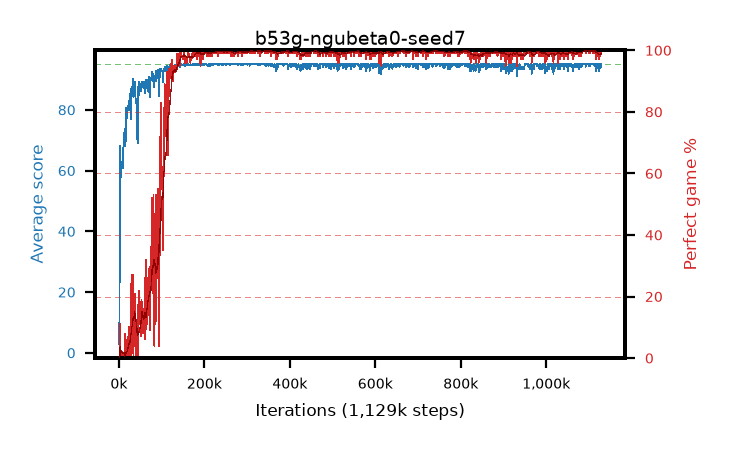
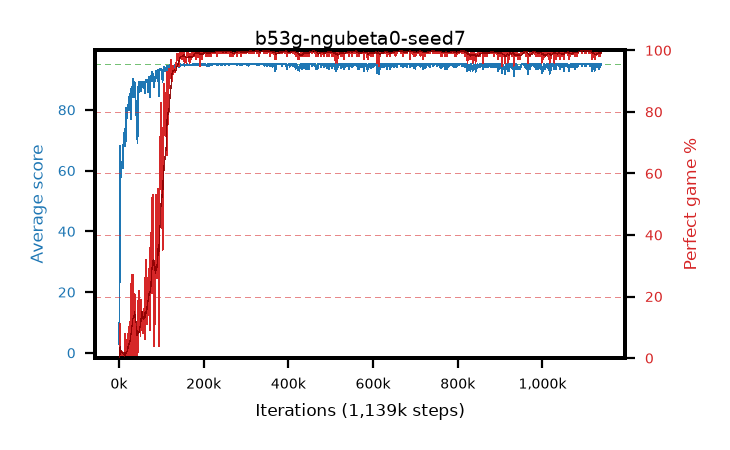
live pictures of 4 arm(s)

diff --git a/results/b53g-ngubeta0-seed7/b53g-ngubeta0-seed7.md b/results/b53g-ngubeta0-seed7/b53g-ngubeta0-seed7.md
@@ -1,6 +1,6 @@
 # b53g-ngubeta0-seed7
 
-step **1,129,000** · 1129 evals · trailing **94.52** · peak **94.97** @274,000 · sef **90.2** · best30 **99.8** @1,111,000
+step **1,139,000** · 1139 evals · trailing **94.44** · peak **94.97** @274,000 · sef **90.3** · best30 **99.8** @1,111,000
 
 ## Config
 
@@ -80,15 +80,15 @@ step **1,129,000** · 1129 evals · trailing **94.52** · peak **94.97** @274,00
 | 2000 | 37.8 | 20.34 | 6.0 | 63.0 | 32.628 | 0.0 | 0.4 |
 | 3000 | 67.99 | 36.22 | 23.0 | 95.0 | 74.006 | 11.0 | 0.4 |
 | ... | ... | ... | ... | ... | ... | ... | ... |
-| 1118000 | 94.19 | 94.78 | 14.0 | 95.0 | 191.939 | 99.0 | 0.4 |
-| 1119000 | 95.0 | 94.78 | 95.0 | 95.0 | 193.787 | 100.0 | 0.4 |
-| 1120000 | 93.87 | 94.74 | 29.0 | 95.0 | 190.573 | 98.0 | 0.4 |
-| 1121000 | 94.31 | 94.72 | 26.0 | 95.0 | 192.065 | 99.0 | 0.4 |
-| 1122000 | 94.34 | 94.69 | 29.0 | 95.0 | 192.095 | 99.0 | 0.4 |
-| 1123000 | 92.75 | 94.64 | 9.0 | 95.0 | 188.424 | 97.0 | 0.4 |
-| 1124000 | 95.0 | 94.64 | 95.0 | 95.0 | 193.797 | 100.0 | 0.4 |
-| 1125000 | 93.61 | 94.6 | 20.0 | 95.0 | 190.323 | 98.0 | 0.4 |
-| 1126000 | 94.24 | 94.57 | 19.0 | 95.0 | 191.988 | 99.0 | 0.4 |
-| 1127000 | 94.23 | 94.55 | 18.0 | 95.0 | 191.979 | 99.0 | 0.4 |
 | 1128000 | 95.0 | 94.55 | 95.0 | 95.0 | 193.793 | 100.0 | 0.4 |
 | 1129000 | 94.24 | 94.52 | 19.0 | 95.0 | 191.992 | 99.0 | 0.4 |
+| 1130000 | 94.55 | 94.53 | 50.0 | 95.0 | 192.293 | 99.0 | 0.4 |
+| 1131000 | 95.0 | 94.53 | 95.0 | 95.0 | 193.787 | 100.0 | 0.4 |
+| 1132000 | 94.27 | 94.51 | 22.0 | 95.0 | 192.021 | 99.0 | 0.4 |
+| 1133000 | 94.92 | 94.53 | 87.0 | 95.0 | 192.702 | 99.0 | 0.4 |
+| 1134000 | 93.56 | 94.48 | 23.0 | 95.0 | 190.272 | 98.0 | 0.4 |
+| 1135000 | 95.0 | 94.48 | 95.0 | 95.0 | 193.784 | 100.0 | 0.4 |
+| 1136000 | 94.22 | 94.45 | 24.0 | 95.0 | 190.938 | 98.0 | 0.4 |
+| 1137000 | 94.49 | 94.44 | 44.0 | 95.0 | 192.242 | 99.0 | 0.4 |
+| 1138000 | 95.0 | 94.44 | 95.0 | 95.0 | 193.789 | 100.0 | 0.4 |
+| 1139000 | 95.0 | 94.44 | 95.0 | 95.0 | 193.789 | 100.0 | 0.4 |

diff --git a/results/b53e-ngubeta0-seed5/b53e-ngubeta0-seed5.md b/results/b53e-ngubeta0-seed5/b53e-ngubeta0-seed5.md
@@ -1,6 +1,6 @@
 # b53e-ngubeta0-seed5
 
-step **1,119,000** · 1119 evals · trailing **94.41** · peak **94.95** @437,000 · sef **91.0** · best30 **99.8** @530,000
+step **1,129,000** · 1129 evals · trailing **94.56** · peak **94.95** @437,000 · sef **91.1** · best30 **99.8** @530,000
 
 ## Config
 
@@ -80,15 +80,15 @@ step **1,119,000** · 1119 evals · trailing **94.41** · peak **94.95** @437,00
 | 2000 | 29.39 | 17.35 | 3.0 | 54.0 | 24.459 | 0.0 | 0.4 |
 | 3000 | 50.81 | 28.5 | 16.0 | 85.0 | 45.457 | 0.0 | 0.4 |
 | ... | ... | ... | ... | ... | ... | ... | ... |
-| 1108000 | 94.3 | 94.43 | 27.0 | 95.0 | 191.045 | 98.0 | 0.4 |
-| 1109000 | 94.22 | 94.41 | 22.0 | 95.0 | 190.973 | 98.0 | 0.4 |
-| 1110000 | 94.25 | 94.38 | 20.0 | 95.0 | 192.003 | 99.0 | 0.4 |
-| 1111000 | 94.15 | 94.38 | 15.0 | 95.0 | 190.902 | 98.0 | 0.4 |
-| 1112000 | 95.0 | 94.41 | 95.0 | 95.0 | 193.783 | 100.0 | 0.4 |
-| 1113000 | 95.0 | 94.41 | 95.0 | 95.0 | 193.788 | 100.0 | 0.4 |
-| 1114000 | 95.0 | 94.44 | 95.0 | 95.0 | 193.781 | 100.0 | 0.4 |
-| 1115000 | 94.11 | 94.43 | 19.0 | 95.0 | 189.859 | 97.0 | 0.4 |
-| 1116000 | 94.84 | 94.43 | 81.0 | 95.0 | 191.547 | 98.0 | 0.4 |
-| 1117000 | 94.26 | 94.41 | 24.0 | 95.0 | 190.967 | 98.0 | 0.4 |
 | 1118000 | 95.0 | 94.43 | 95.0 | 95.0 | 193.791 | 100.0 | 0.4 |
 | 1119000 | 92.77 | 94.41 | 16.0 | 95.0 | 188.451 | 97.0 | 0.4 |
+| 1120000 | 94.13 | 94.44 | 8.0 | 95.0 | 191.883 | 99.0 | 0.4 |
+| 1121000 | 94.23 | 94.42 | 18.0 | 95.0 | 191.98 | 99.0 | 0.4 |
+| 1122000 | 94.16 | 94.39 | 16.0 | 95.0 | 190.867 | 98.0 | 0.4 |
+| 1123000 | 95.0 | 94.41 | 95.0 | 95.0 | 193.788 | 100.0 | 0.4 |
+| 1124000 | 95.0 | 94.44 | 95.0 | 95.0 | 193.792 | 100.0 | 0.4 |
+| 1125000 | 94.97 | 94.44 | 92.0 | 95.0 | 192.709 | 99.0 | 0.4 |
+| 1126000 | 95.0 | 94.46 | 95.0 | 95.0 | 193.781 | 100.0 | 0.4 |
+| 1127000 | 94.93 | 94.48 | 88.0 | 95.0 | 192.716 | 99.0 | 0.4 |
+| 1128000 | 94.97 | 94.51 | 92.0 | 95.0 | 192.748 | 99.0 | 0.4 |
+| 1129000 | 95.0 | 94.56 | 95.0 | 95.0 | 193.774 | 100.0 | 0.4 |
